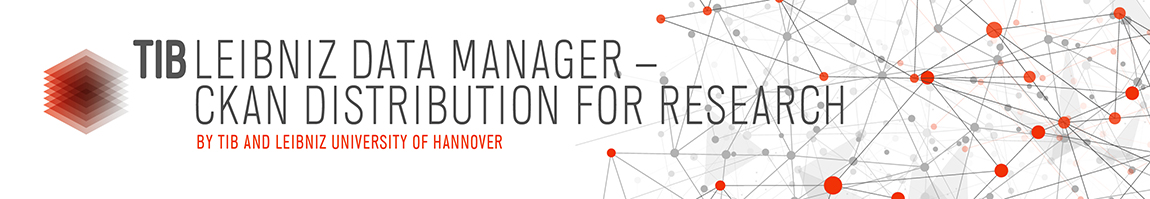
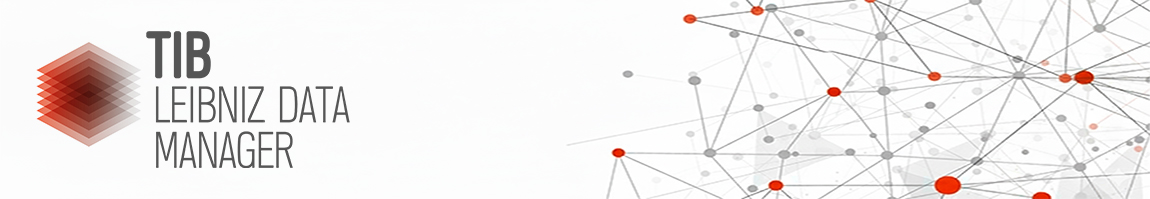
Updating About page

Changed region(s): [[0.0304, 0.0, 1.0, 1.0]]

diff --git a/ckanext/TIBtheme/templates/home/snippets/about_text_TIB.html b/ckanext/TIBtheme/templates/home/snippets/about_text_TIB.html
@@ -4,77 +4,60 @@
 
 {% if current_lang == 'de' %}
 
-    <h1 class="page-heading">{{ "Über den Leibniz-Datenmanager" }}</h1>
-    <p>Der <strong>Leibniz Data Manager (LDM)</strong> ist eine quelloffene und kostenlose webbasierte Anwendung für das Forschungsdatenmanagement (RDM).
-        Der LDM bietet verschiedene Distributionen an, um den spezifischen Anforderungen verschiedener Kunden gerecht zu werden, z.B.
-        Instituten und Forschungsgruppen, die RDM in verschiedenen wissenschaftlichen Disziplinen betreiben.
-        Die LDM-Distributionen werden von der <a href="https://www.tib.eu/de/" target="_blank" rel="nofollow">TIB</a> und
-        <a href="https://www.l3s.de/de" target="_blank" rel="nofollow">L3S</a> entwickelt, gepflegt und kuratiert.
-    </p>
-    <p>Der Prototyp bietet derzeit die folgenden Funktionen zur Visualisierung von Forschungsdaten:</p>
-    <ul><li>Unterstützung von Datensammlungen und Publikationen mit unterschiedlichen Formaten</li>
-        <li>Unterschiedliche Sichten auf denselben Datensatz (2D- und 3D-Unterstützung)</li>
-        <li>Visualisierung von Auto-CAD-Dateien</li>
-        <li>Jupyter Notes zur Demonstration von Live-Code</li>
-        <li>RDF Beschreibung von Datensammlungen</li>
+<h1 class="page-heading">{{ "Über den Leibniz Data Manager" }}</h1>
+<p>Der <strong>Leibniz Data Manager (LDM)</strong> ist eine modulare Forschungsdateninfrastruktur, die das <strong>FAIR-konforme Management und die Exploration von Research Digital Objects (RDOs)</strong> ermöglicht—wie Datensätze, Software, Dokumente und wissenschaftliche Publikationen. Durch die Kombination von <strong>Knowledge Graphs (KGs)</strong> mit <strong>Neuro-Symbolischer KI</strong> unterstützt LDM intelligente, interoperable und wiederverwendbare Daten-Workflows über wissenschaftliche Domänen hinweg. Zu den Hauptmerkmalen gehören:</p>
+    
+    <ul>
+        <li><strong>Metadaten-Repräsentation</strong> unter Verwendung von Standard- und domänenspezifischen Vokabularen (z.B. DCAT, Datacite, UMLS), die semantische Interoperabilität und Ausrichtung an FAIR-Prinzipien gewährleisten.</li>
+        
+        <li><strong>Knowledge Graph-Konstruktion</strong> aus heterogenen Datenquellen durch ein deklaratives Datenintegrationssystem (DIS), das strukturierte und kontextuelle Metadaten ermöglicht.</li>
+        
+        <li><strong>Entity Linking und Anreicherung</strong> von RDOs mit externen KGs wie <strong>Wikidata</strong> und dem <strong>Open Research Knowledge Graph (ORKG)</strong>, unter Verwendung von Tools wie Falcon und BioLinkedAI zur automatischen Erweiterung von Metadaten.</li>
+        
+        <li><strong>On-the-Fly Metadaten-Updates</strong>, die die Synchronisation mit sich entwickelndem Wissen und neu veröffentlichten Ressourcen aufrechterhalten.</li>
+        
+        <li><strong>Föderierte Abfrageverarbeitung</strong> über mehrere KGs hinweg, die es Benutzern ermöglicht, <strong>natürlichsprachliche Fragen</strong> zu stellen, die in SPARQL umgewandelt und über LDM und ORKG ausgeführt werden.</li>
+        
+        <li><strong>Datensatz-Vergleich und Visualisierung</strong>, mit Tools zur Analyse und zum Vergleich von RDOs basierend auf gemeinsamen Attributen und Forschungskontexten.</li>
+        
+        <li><strong>Live-Code-Ausführung</strong> über <strong>Jupyter Notebooks</strong>, die reproduzierbare wissenschaftliche Workflows und interaktive Datenanalyse in einer sicheren, containerisierten Umgebung ermöglichen.</li>
+        
+        <li><strong>Neuro-Symbolisches Reasoning</strong> sowohl für die Beantwortung von Anfragen als auch für die Metadaten-Erweiterung, das symbolische Modelle mit LLM-basierter Kontextualisierung kombiniert, um die Auffindbarkeit und Nutzbarkeit von RDOs zu verbessern.</li>
     </ul>
-    <p>Die dateispezifischen Viewer wurden mit Hilfe von CKAN-Plugins (Comprehensive Knowledge Archive Network) implementiert, um bestehende Viewer für die in der
-        CKAN-Instanz enthaltenen Datensätze darzustellen.</p>
-    <p>TDie RDM-bezogenen Konzepte, die LDM-Distributionen und die Deployment-Methoden werden im
-        <a href="https://github.com/TIBHannover/ldm.base/wiki" title="wiki" target="_blank"
-           class="external-link-new-window">Projekt-Wiki</a> auf GitHub erläutert.
-    </p>
-    <p>Neben dem Leibniz Data Manager bietet die TIB weitere Dienste rund um das Forschungsdatenmanagement für Institutionen und Wissenschaftler an.
-        Dazu gehören ein DOI-Service, Unterstützung bei der Auswahl der richtigen Repositorien, bei der Veröffentlichung und Archivierung von
-        Forschungsdaten sowie Schulungs- und Beratungsangebote.
-        Eine vollständige Leistungsbeschreibung finden Sie auf unserer Homepage:
-        <a href="https://www.tib.eu/de/publizieren-archivieren/forschungsdaten" target="_blank"
-           data-htmlarea-external="1">https://www.tib.eu/de/publizieren-archivieren/forschungsdaten</a>
-        <p>Weitere Informationen über das LDM-Projekt finden Sie auf der <a href="https://projects.tib.eu/datamanager/" title="TIB webpage" target="_blank"
-           class="external-link-new-window">TIB-Webseite</a> und den zuletzt aktualisierten Code im <a href="https://github.com/SDM-TIB/LDM_Docker" title="GitHub" target="_blank"
-           class="external-link-new-window">GitHub-Repository</a>.</p>
-        <p>Bitte kontaktieren Sie uns unter <a href="mailto:[email redacted]">[email redacted]</a>,
-            wenn Sie Kommentare oder Fragen haben.</p>
-    </p>
+    
+    <p>LDM ist öffentlich zugänglich unter <a href="https://service.tib.eu/ldmservice/">https://service.tib.eu/ldmservice/</a>, und ein <strong>Docker-Container</strong> für die lokale Bereitstellung ist verfügbar unter <a href="https://github.com/SDM-TIB/LDM_Docker">https://github.com/SDM-TIB/LDM_Docker</a></p>
+	
+
     <p>&nbsp;</p>
 
 {% else %}
-    <h1 class="page-heading">{{ "About the Leibniz Data Manager" }}</h1>
-    <p>The&nbsp;<strong>Leibniz Data Manager (LDM)</strong>&nbsp;is an open source and free web-based application
-        for Research Data Management (RDM). LDM delivers different distributions to best fit the specific
-        requirements of various customers, e.g., institutes and research groups performing RDM in various
-        scientific disciplines. The LDM distributions are designed, maintained, and curated
-        by&nbsp;
-        <a href="https://www.tib.eu/en/" target="_blank" rel="nofollow">TIB</a>&nbsp;
-        and&nbsp;
-        <a href="https://www.l3s.de/en" target="_blank" rel="nofollow">L3S</a>.
-    </p>
-    <p>The prototype currently offers the following functions for the visualization of research data:</p>
-    <ul><li>Supports data collections and publications&nbsp; with different formats</li>
-        <li>Different views on the same data set (2D and 3D support)</li>
-        <li>Visualization of Auto CAD files</li>
-        <li>Jupyter Notes for demonstrating live code</li>
-        <li>RDF Description of data collections</li>
-    </ul>
-    <p>The file specific viewers were implemented using CKAN (Comprehensive Knowledge Archive Network) plugins
-        to render existing viewers for the datasets included in the CKAN instance.</p>
-    <p>The RDM arelated&nbsp;concepts, the LDM distributions, and the deployment methods are explained in the
-        projects
-        <a href="https://github.com/TIBHannover/ldm.base/wiki" title="wiki" target="_blank"
-           class="external-link-new-window">wiki</a> on GitHub.
-    </p>
-    <p>Besides the Leibniz Data Manager, TIB provides further <strong>services around research data management</strong>
-        for institutions and researchers. This includes a DOI service, support in choosing the right repositories,
-        and in publishing and archiving research data, as well as training and advisory services. Please refer to
-        our homepage for a full service description:
-        <a href="https://www.tib.eu/en/publishing-archiving/research-data/" target="_blank"
-           data-htmlarea-external="1">https://www.tib.eu/en/publishing-archiving/research-data/</a>
-    </p>
-    <p>More info about the LDM project can be found on the <a href="https://projects.tib.eu/datamanager/" title="TIB webpage" target="_blank"
-           class="external-link-new-window">TIB webpage</a> and the last updated code in the <a href="https://github.com/SDM-TIB/LDM_Docker" title="GitHub" target="_blank"
-           class="external-link-new-window">GitHub</a> repository.</p>
 
-    <p>Please, contact us at <a href="mailto:[email redacted]">[email redacted]</a> if you have comments or questions.</p>
+<h1 class="page-heading">{{ "About the Leibniz Data Manager" }}</h1>
+<p>The <strong>Leibniz Data Manager (LDM)</strong> is a modular research data infrastructure that enables the <strong>FAIR-compliant management and exploration of Research Digital Objects (RDOs)</strong>—such as datasets, software, documents, and scientific publications. By combining <strong>Knowledge Graphs (KGs)</strong> with <strong>Neuro-Symbolic AI</strong>, LDM supports intelligent, interoperable, and reusable data workflows across scientific domains. Key features include:</p>
+    
+    <ul>
+        <li><strong>Metadata Representation</strong> using standard and domain-specific vocabularies (e.g., DCAT, Datacite, UMLS), ensuring semantic interoperability and alignment with FAIR principles.</li>
+        
+        <li><strong>Knowledge Graph Construction</strong> from heterogeneous data sources through a declarative data integration system (DIS), enabling structured and contextual metadata.</li>
+        
+        <li><strong>Entity Linking and Enrichment</strong> of RDOs with external KGs such as <strong>Wikidata</strong> and the <strong>Open Research Knowledge Graph (ORKG)</strong>, using tools like Falcon and BioLinkedAI to automatically expand metadata.</li>
+        
+        <li><strong>On-the-Fly Metadata Updates</strong>, maintaining synchronization with evolving knowledge and newly published resources.</li>
+        
+        <li><strong>Federated Query Processing</strong> across multiple KGs, allowing users to pose <strong>natural language questions</strong> that are transformed into SPARQL and executed over LDM and ORKG.</li>
+        
+        <li><strong>Dataset Comparison and Visualization</strong>, offering tools to analyze and contrast RDOs based on shared attributes and research contexts.</li>
+        
+        <li><strong>Live Code Execution</strong> via <strong>Jupyter Notebooks</strong>, enabling reproducible scientific workflows and interactive data analysis within a secure, containerized environment.</li>
+        
+        <li><strong>Neuro-Symbolic Reasoning</strong> for both query answering and metadata expansion, combining symbolic models with LLM-based contextualization to enhance discoverability and usability of RDOs.</li>
+    </ul>
+    
+    <p>LDM is publicly accessible at <a href="https://service.tib.eu/ldmservice/">https://service.tib.eu/ldmservice/</a>, and a <strong>Docker container</strong> for local deployment is available at <a href="https://github.com/SDM-TIB/LDM_Docker">https://github.com/SDM-TIB/LDM_Docker</a></p>
+
+
+
+
     <p>&nbsp;</p>
 {% endif %}
 